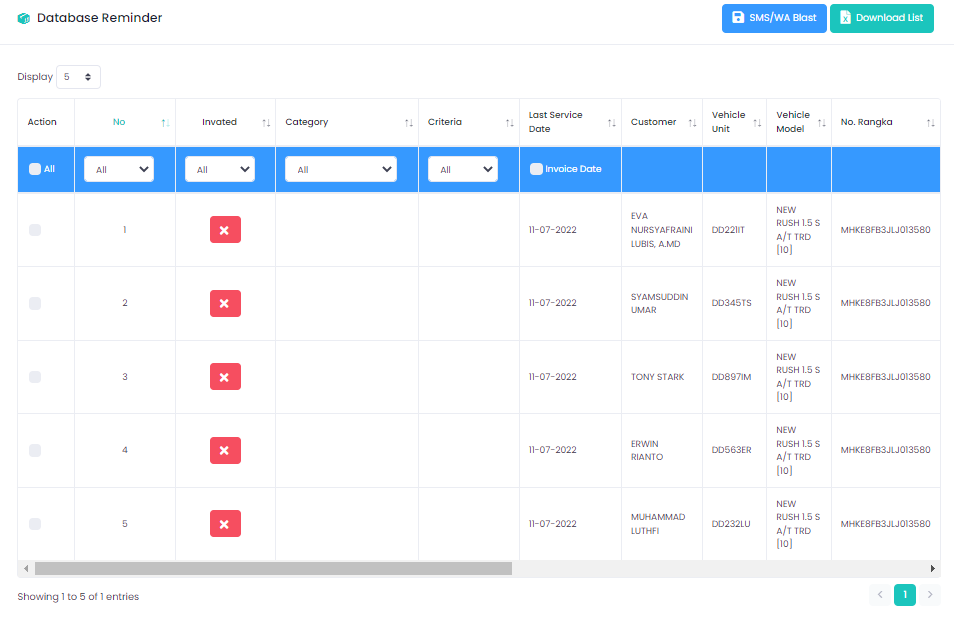
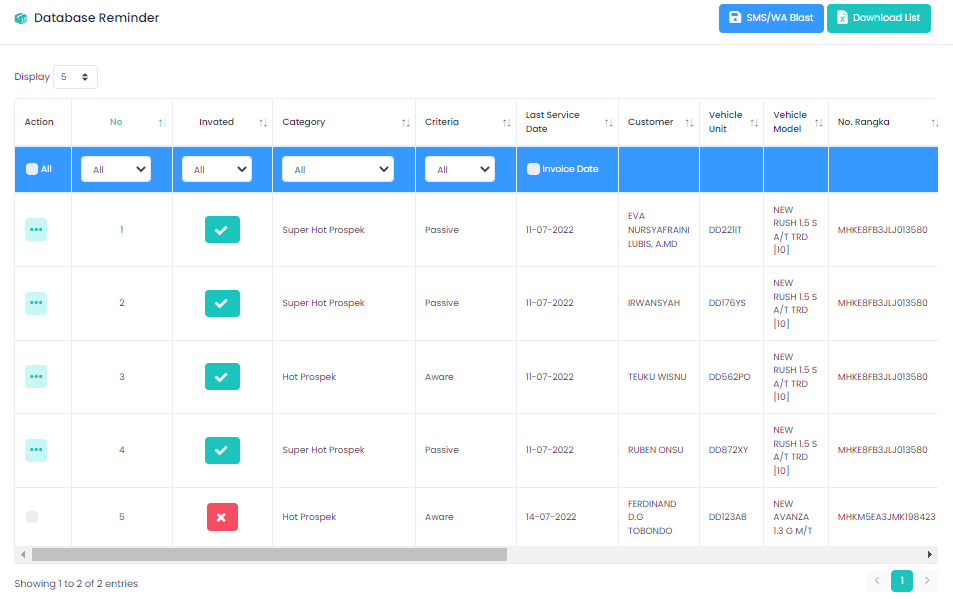
first-commit

diff --git a/docs/mraog.md b/docs/mraog.md
@@ -108,3 +108,41 @@ Keterangan :
 ---
 
 ### **Reminder**
+
+> Pada tahap ini menu Reminder digunakan untuk mengingatkan customer untuk melakukan servis berkala pada unit kendaraan nya, untuk memulai melakukan reminder silahkan klik menu **Appointment - Reminder Active**
+
+![Docusaurus Plushie](/img/mra-og/reminder/1.png)
+
+akan muncul tampilan seperti dibawah ini.
+
+![Docusaurus Plushie](/img/mra-og/reminder/2.png)
+
+untuk memulai melakukan reminder, silahkan centang terlebih dahulu customer pada list view lalu klik button ![Docusaurus Plushie](/img/mra-og/reminder/blast.png)
+
+![Docusaurus Plushie](/img/mra-og/reminder/3.png)
+
+maka icon centang tersebut berubah menjadi button ![Docusaurus Plushie](/img/mra-og/reminder/tigatitik.png)
+
+![Docusaurus Plushie](/img/mra-og/reminder/4.png)
+
+silahkan klik button tersebut lalu klik button **Edit**
+
+![Docusaurus Plushie](/img/mra-og/reminder/5.png)
+
+maka akan muncul tampilan seperti dibawah ini.
+
+![Docusaurus Plushie](/img/mra-og/reminder/6.png)
+
+silahkan centang salah satu atau lebih jenis reminder yang diterapkan ke customer.
+
+![Docusaurus Plushie](/img/mra-og/reminder/7.png)
+
+jika customer bersedia datang servis di kemudian hari silahkan centang **booking** lalu isi tanggal di samping nya setelah itu klik button ![Docusaurus Plushie](/img/mra-og/reminder/booking.png) di bagian kanan bawah tampilan, maka secara otomatis akan di arahkan ke menu booking.
+
+setelah semua selesai dicentang dan di isi klik **Save**
+
+![Docusaurus Plushie](/img/mra-og/reminder/8.png)
+
+klik pada bagian kanan atas untuk mendownload laporan reminder klik button ![Docusaurus Plushie](/img/mra-og/reminder/download.png).
+
+![Docusaurus Plushie](/img/mra-og/reminder/9.png)

diff --git a/docs/general-repair/doc-checking/doc-checking.md b/docs/general-repair/doc-checking/doc-checking.md
@@ -25,4 +25,36 @@ Setelah form terisi klik tombol save maka tombol follow up pada form document ch
 
 ![Docusaurus Plushie](/img/general-repair/doc-checking/4.png)
 
-Kemudian klik  , maka Service Advisor akan melanjutkan proses Invoicing.
+Kemudian klik  , maka Service Advisor akan melanjutkan proses Invoicing oleh Billing.
+
+---
+
+### Back To Inspection
+
+> Back to Inspection adalah suatu action yang berfungsi untuk mengembalikan status Work Order ke status Inspection, Berikut ini adalah langkah-langkah untuk mengembalikan WO ke status Inspection.
+
+![Docusaurus Plushie](/img/general-repair/doc-checking/5.png)
+
+Untuk memulai proses Document Checking, klik ![Docusaurus Plushie](/img/general-repair/doc-checking/tigatitik.png) lalu akan muncul tampilan seperti dibawah ini.
+
+![Docusaurus Plushie](/img/general-repair/doc-checking/6.png)
+
+lalu klik button ![Docusaurus Plushie](/img/general-repair/doc-checking/inspection.png)
+
+maka status Work Order kembali ke status **Inspection** silahkan di cek kembali.
+
+---
+
+### Add Program/Insurance
+
+> berikut ini adalah langkah-langkah cara menambahkan program atau insurance baik itu di job maupun part.
+
+![Docusaurus Plushie](/img/general-repair/doc-checking/5.png)
+
+Untuk memulai proses penambahan program atau insurance, klik ![Docusaurus Plushie](/img/general-repair/doc-checking/tigatitik.png) lalu akan muncul tampilan seperti dibawah ini.
+
+![Docusaurus Plushie](/img/general-repair/doc-checking/7.png)
+
+klik button ![Docusaurus Plushie](/img/general-repair/doc-checking/tigatitik.png), maka akan muncul form job seperti dibawah ini.
+
+![Docusaurus Plushie](/img/general-repair/doc-checking/8.png)

diff --git a/docs/general-repair/production/production.md b/docs/general-repair/production/production.md
@@ -31,7 +31,7 @@ untuk memulai proses pengerjaan unit kendaraan, pada bagian kanan list view klik
 
 ### **Job Suggestion**
 
-> untuk mengisi form jog suggest, pada bagian kanan atas list view klik button ![Docusaurus Plushie](/img/general-repair/production/tambah.png) seperti gambar di bawah ini.
+> untuk mengisi form job suggest, pada bagian kanan atas list view klik button ![Docusaurus Plushie](/img/general-repair/production/tambah.png) seperti gambar di bawah ini.
 
 ![Docusaurus Plushie](/img/general-repair/production/3.png)
 
